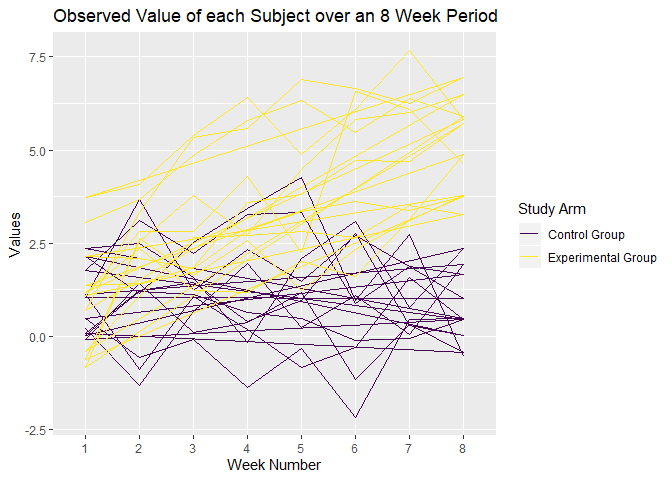
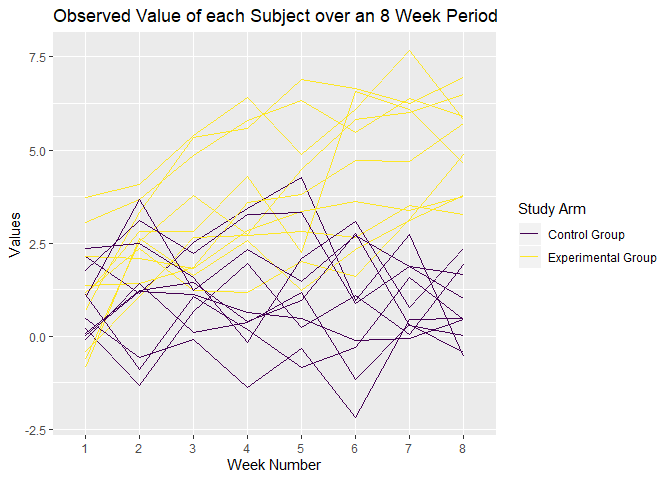
fixed an issue were observations were doubled in problem 2. started problem 3, made the function.

diff --git a/p8105_hw5_mrc2229.md b/p8105_hw5_mrc2229.md
@@ -96,16 +96,19 @@ long_study_tib = tibble(
 long_study = long_study_tib %>%
   mutate(lists = map(path, data_function)) %>%
   unnest(cols=lists)%>%
+  mutate(
+    subject_id=row_number()
+  )%>%
   pivot_longer(
     week_1:week_8,
     names_to = "week",
     values_to = "value"
   ) %>%
-  separate(file_name, into = c("study_arm", "subject_id"), sep="_")%>%
+  separate(file_name, into = c("study_arm", "id"), sep="_")%>%
   mutate(
     study_arm = recode(study_arm, con = "Control Group", exp = "Experimental Group")
   ) %>%
-  select(-path)%>%
+  select(-path,-id)%>%
   mutate(
     subject_id = str_replace(subject_id, ".csv",""),
     week = str_replace(week,"week_","")
@@ -116,7 +119,7 @@ long_study = long_study_tib %>%
 long_study_plot = long_study %>%
   group_by(study_arm, subject_id, week)%>%
   ggplot(aes(x=week,y=value))+
-  geom_path(aes(group=study_arm, color=study_arm))+
+  geom_path(aes(group=subject_id, color=study_arm))+
   scale_color_viridis(
     discrete = TRUE,
     name = "Study Arm"
